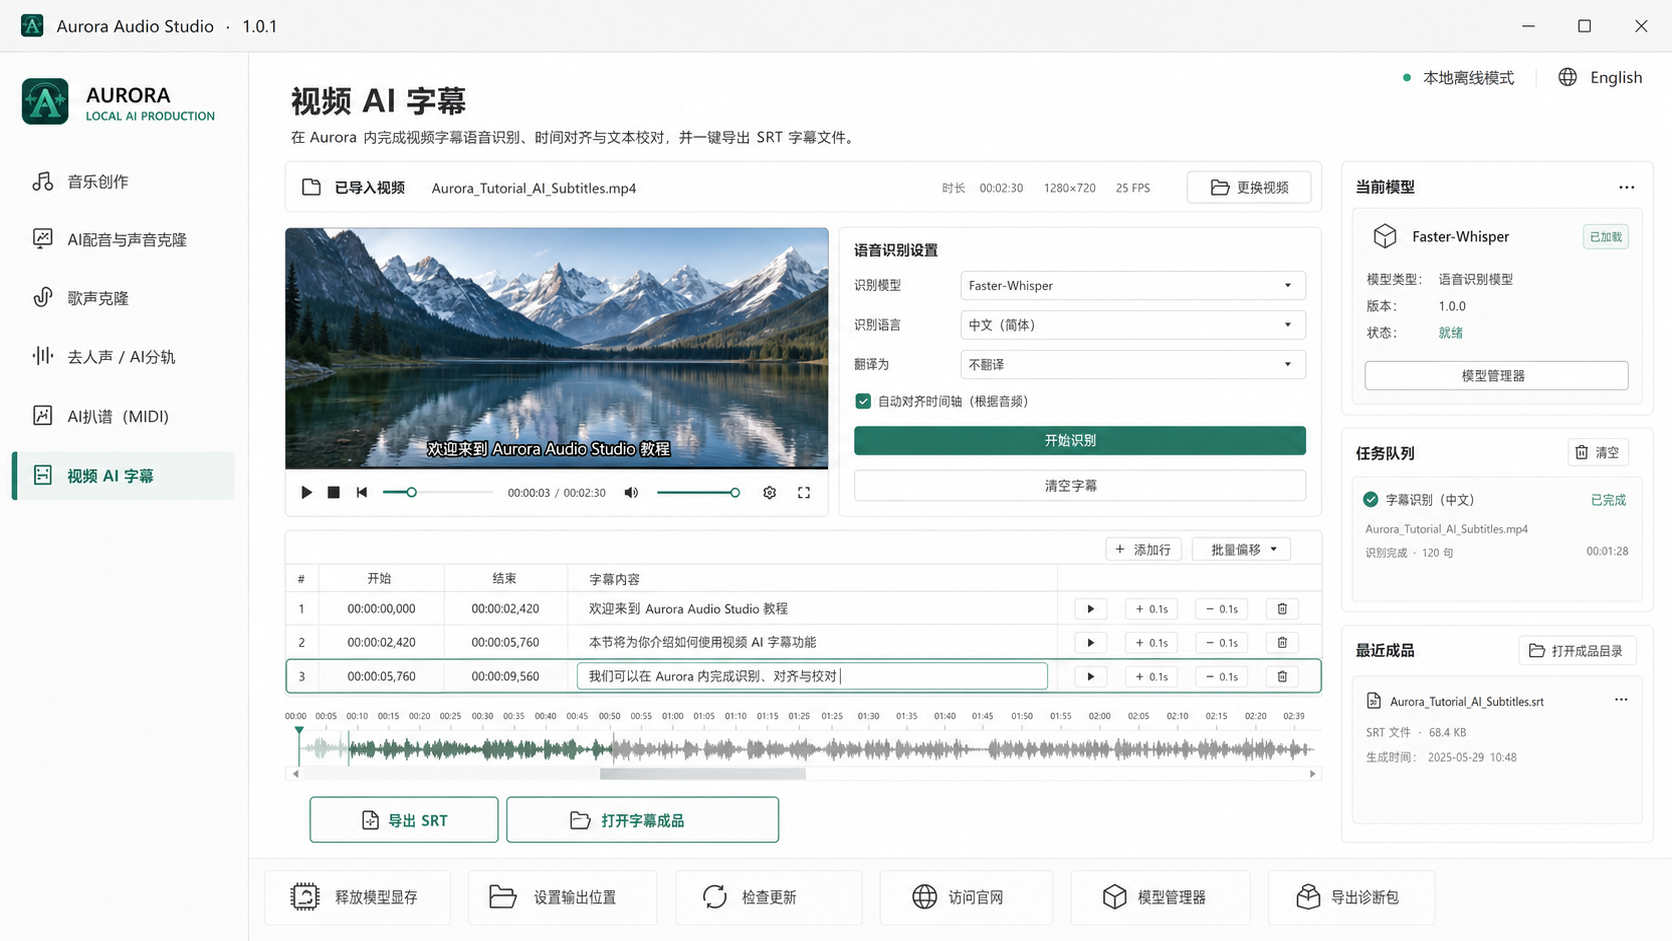
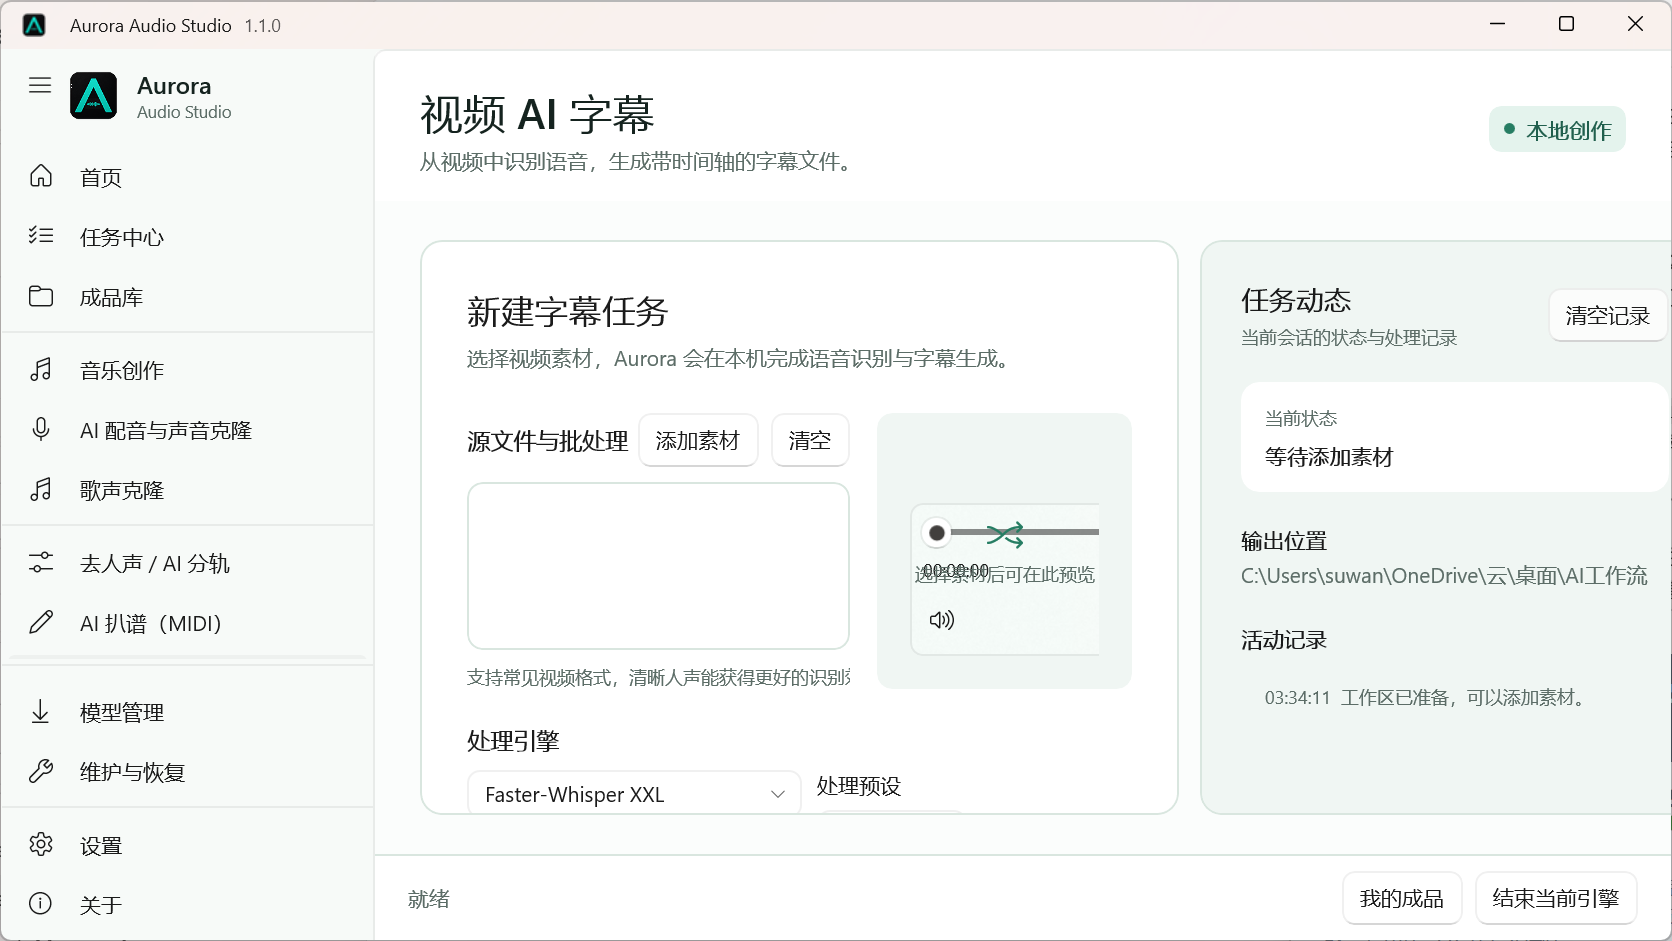
Refresh README and website visuals

diff --git a/docs/styles.css b/docs/styles.css
@@ -51,6 +51,9 @@ html[lang="en"] .en { display: inline; }
 h1, h2 { margin: 0; font-family: "Segoe UI Variable Display", "Segoe UI", "Microsoft YaHei UI", sans-serif; letter-spacing: -.055em; font-weight: 720; text-wrap: balance; }
 h1 { max-width: 980px; font-size: clamp(56px, 7vw, 106px); line-height: .98; }
 h2 { font-size: clamp(40px, 5.1vw, 76px); line-height: 1.02; }
+html[lang="zh-CN"] h1, html[lang="zh-CN"] h2 { letter-spacing: 0; }
+html[lang="zh-CN"] h1 { line-height: 1.06; }
+html[lang="zh-CN"] h2 { line-height: 1.1; }
 .hero-lead { max-width: 760px; margin: 30px 0 0; color: var(--muted); font-size: clamp(17px, 1.55vw, 22px); line-height: 1.65; }
 .hero-actions { display: flex; flex-wrap: wrap; gap: 12px; margin-top: 34px; }
 .button { min-height: 48px; display: inline-flex; align-items: center; justify-content: center; padding: 0 22px; border: 1px solid transparent; border-radius: var(--radius-s); font-weight: 700; transition: transform .22s ease, box-shadow .22s ease, background .22s ease; }

diff --git a/README.md b/README.md
@@ -4,10 +4,10 @@
   <p><strong>让声音创作，回到创作本身。</strong></p>
   <p>面向 Windows 的本地 AI 音频创作工作台</p>
   <p>
-    <a href="https://swy2018.github.io/Aurora-Audio-Studio/">官方网站</a>
-    · <a href="https://github.com/swy2018/Aurora-Audio-Studio/releases/latest">下载 1.1.0</a>
-    · <a href="CHANGELOG.md">更新日志</a>
-    · <a href="#english">English</a>
+    <a href="https://swy2018.github.io/Aurora-Audio-Studio/"><img alt="官方网站" src="https://img.shields.io/badge/%E5%AE%98%E6%96%B9%E7%BD%91%E7%AB%99-Aurora-247f67?style=for-the-badge"></a>
+    <a href="https://github.com/swy2018/Aurora-Audio-Studio/releases/latest"><img alt="下载 1.1.0" src="https://img.shields.io/badge/%E4%B8%8B%E8%BD%BD-1.1.0-165f4d?style=for-the-badge"></a>
+    <a href="CHANGELOG.md"><img alt="更新日志" src="https://img.shields.io/badge/%E6%9B%B4%E6%96%B0%E6%97%A5%E5%BF%97-1.1-405a50?style=for-the-badge"></a>
+    <a href="#english"><img alt="English" src="https://img.shields.io/badge/English-README-5f7169?style=for-the-badge"></a>
   </p>
 </div>
 
